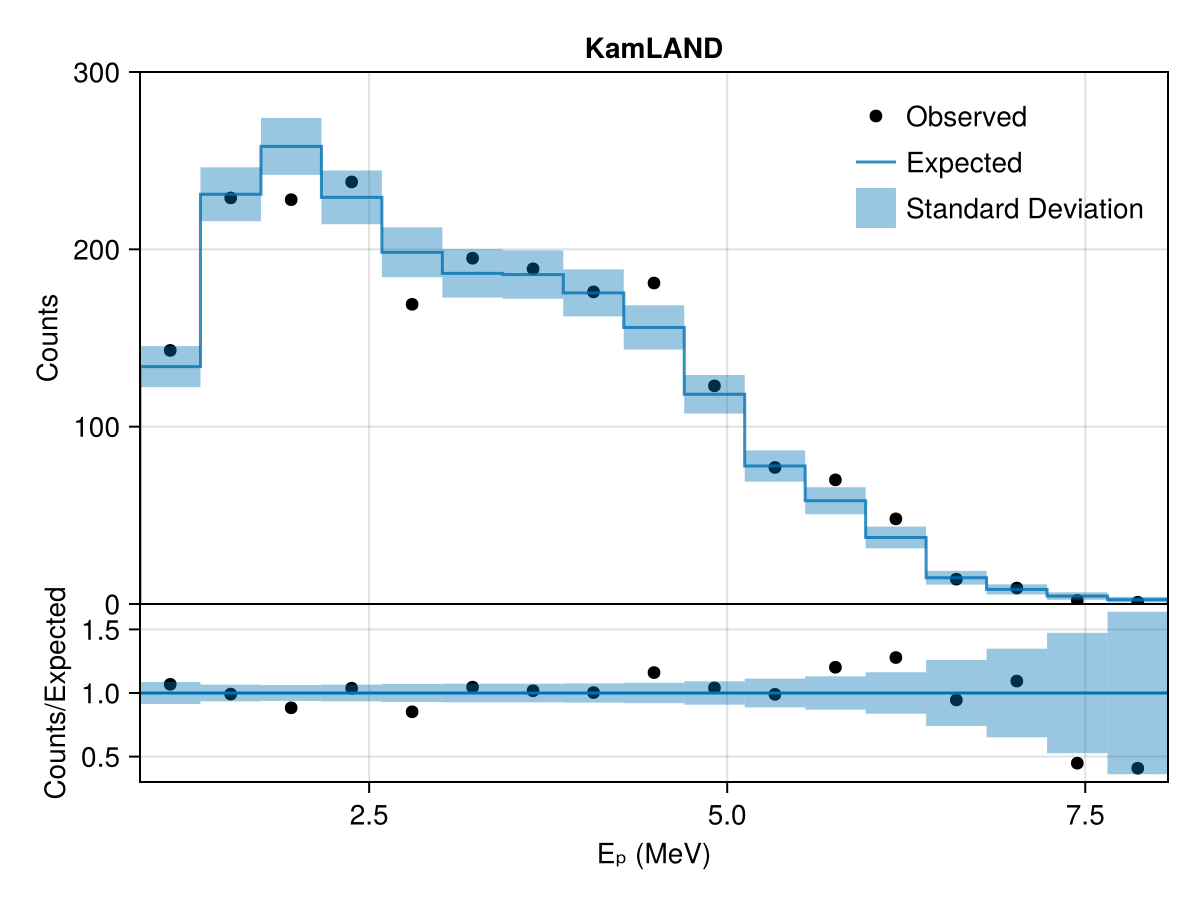
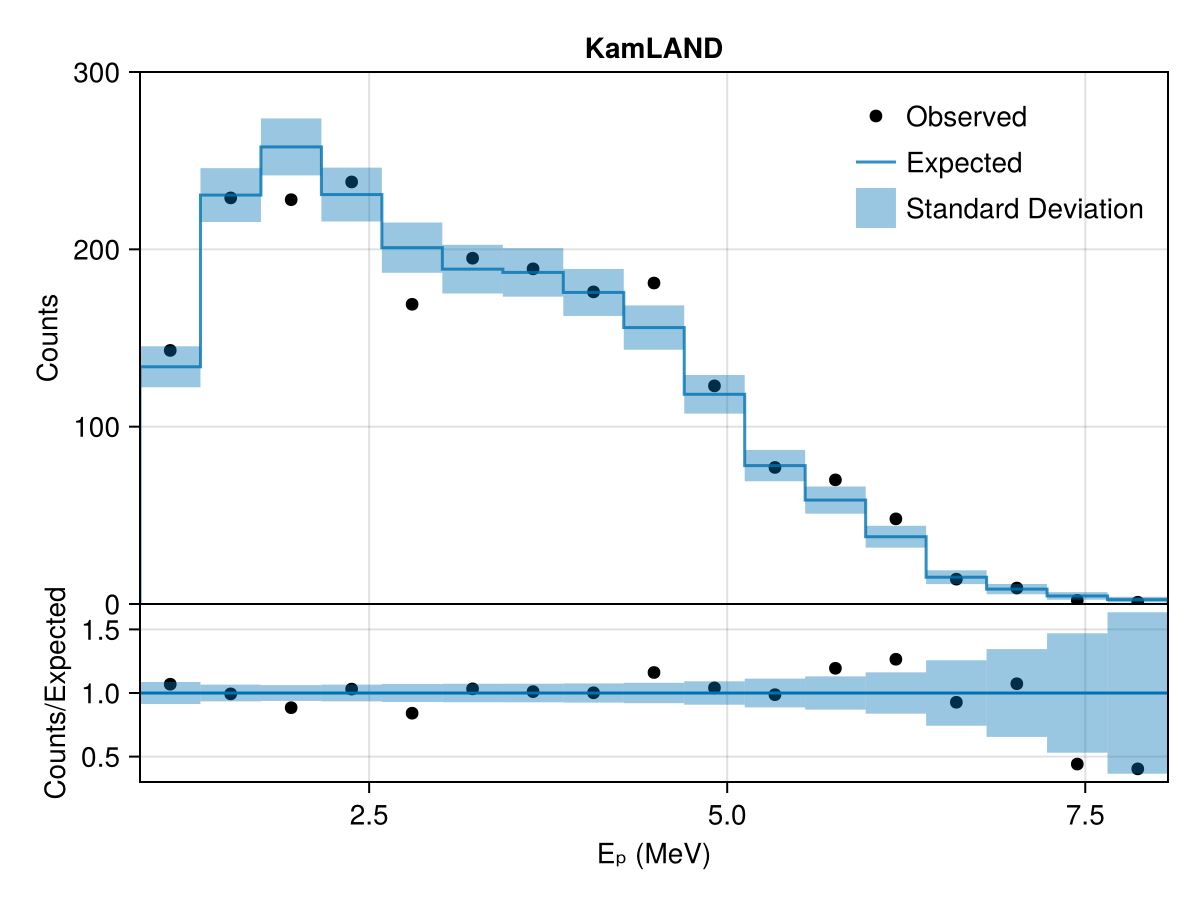
nicer kamland contour

diff --git a/src/experiments/kamland/kamland_7years/README.md b/src/experiments/kamland/kamland_7years/README.md
@@ -8,14 +8,14 @@ Data digitized from plots in https://arxiv.org/abs/1009.4771
 ![DataMC](test_output/datamc.png)
 ## Meta Information
 - **repo_clean**: false
-- **exec_time**: 18.04246497154236
+- **exec_time**: 23.88645601272583
 - **username**: peller
 - **repo**: /mnt/c/Users/peller/work/Newtrinos
 - **cache_dir**: test
 - **hostname**: flippy
 - **params**: (kamland_energy_scale = 0.0, kamland_flux_scale = 0.0, kamland_geonu_scale = 0.0, Δm²₂₁ = 7.53e-5, Δm²₃₁ = 0.0024752999999999997, δCP = 1.0, θ₁₂ = 0.5872523687443223, θ₁₃ = 0.0, θ₂₃ = 0.8556288707523761)
-- **date**: 2025-10-07 10:13:47
+- **date**: 2025-10-08 13:29:34
 - **task**: profile
-- **vars_to_scan**: OrderedDict{Any, Any}(:θ₁₂ => 11, :Δm²₂₁ => 11)
-- **commit_hash**: 9a999fc252fe36f244dec9c0b41591f8d27b3f38
+- **vars_to_scan**: OrderedDict{Any, Any}(:θ₁₂ => 21, :Δm²₂₁ => 21)
+- **commit_hash**: d683d878435398a273b5da4942412c3d84ece5a7
 - **priors**: (kamland_energy_scale = Truncated(Normal{Float64}(μ=0.0, σ=1.0); lower=-3.0, upper=3.0), kamland_flux_scale = Truncated(Normal{Float64}(μ=0.0, σ=1.0); lower=-3.0, upper=3.0), kamland_geonu_scale = Uniform{Float64}(a=-0.5, b=0.5), Δm²₂₁ = Uniform{Float64}(a=6.5e-5, b=9.0e-5), Δm²₃₁ = 0.0024752999999999997, δCP = 1.0, θ₁₂ = Uniform{Float64}(a=0.4205343352839651, b=0.7853981633974483), θ₁₃ = 0.0, θ₂₃ = 0.8556288707523761)
